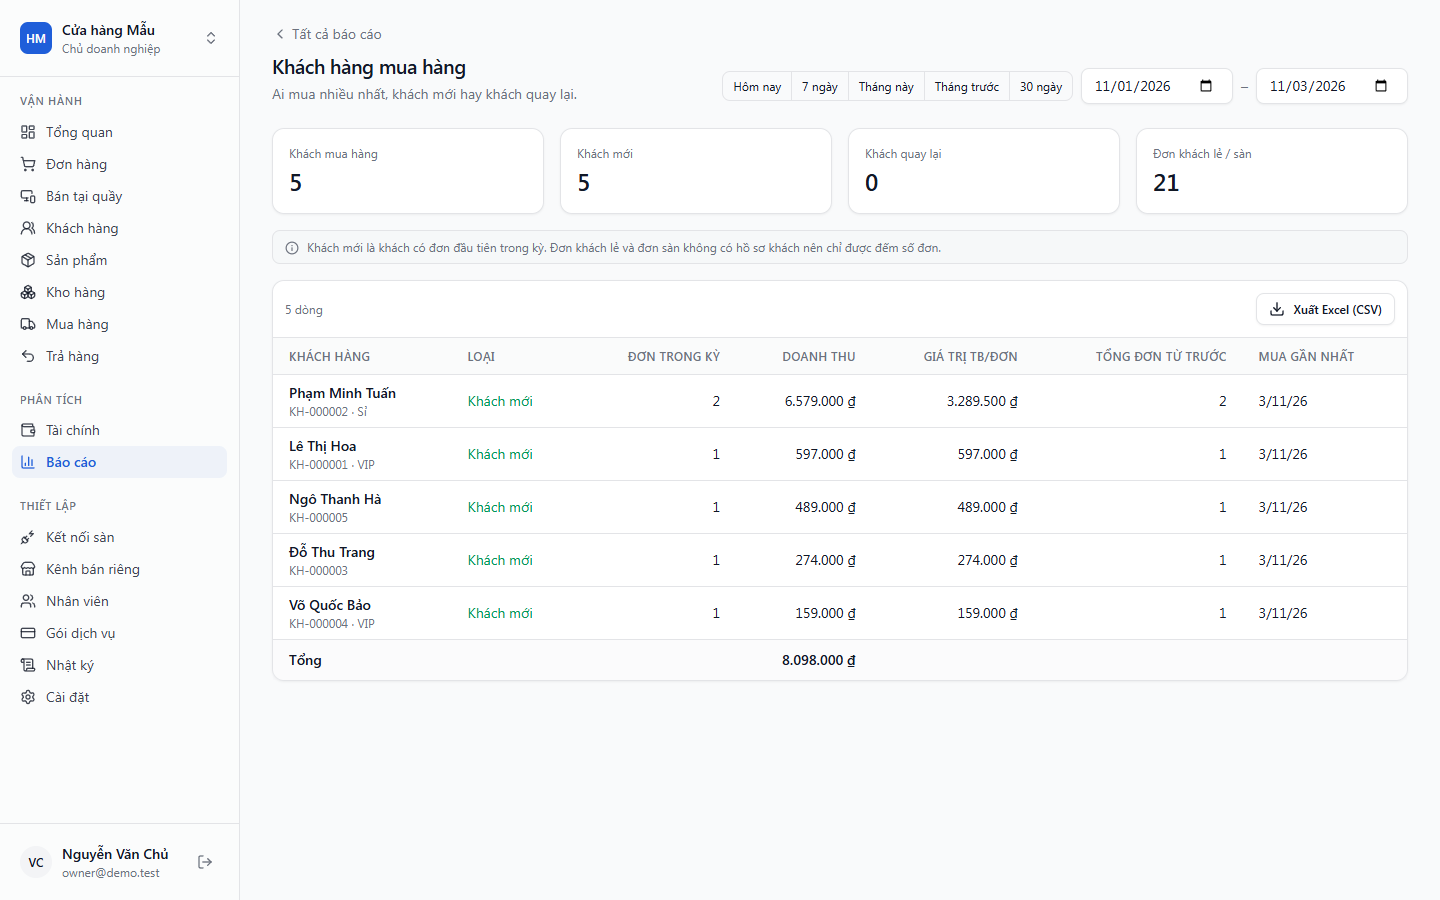
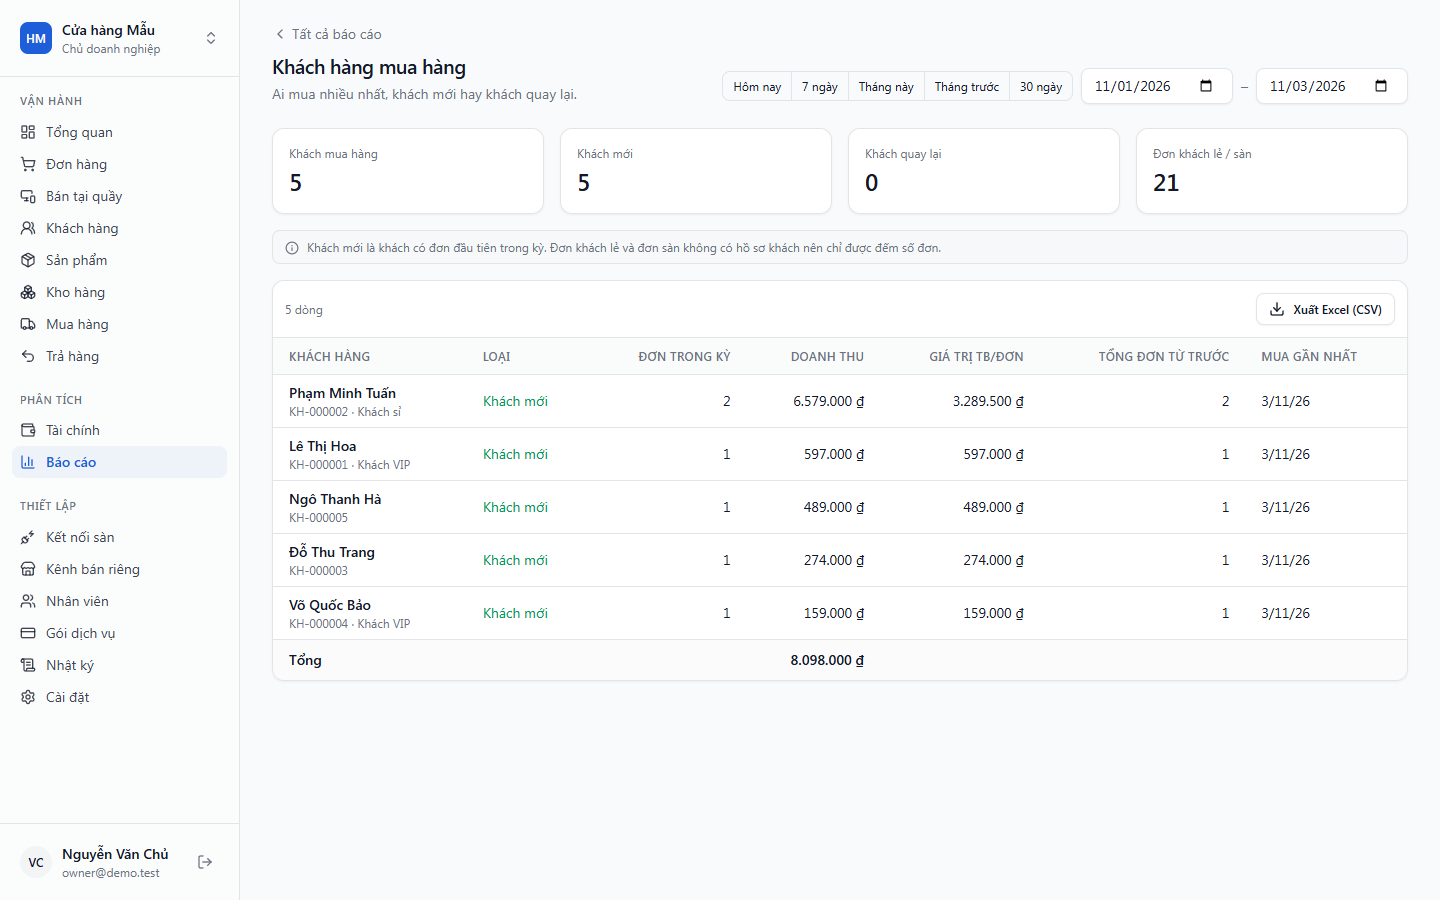
Report centre: supplier payments and stock adjustment reports

diff --git a/resources/js/apps/tenant/pages/reports/catalog.ts b/resources/js/apps/tenant/pages/reports/catalog.ts
@@ -1,3 +1,4 @@
+import { adjustmentReasons } from '../inventory/labels';
 import { paymentMethods, returnStatus, returnTypes } from '../orders/labels';
 
 export type ColumnType = 'text' | 'number' | 'money' | 'pct' | 'date' | 'datetime';
@@ -230,6 +231,57 @@ export const reports: Record<string, DetailReport> = {
             { key: 'shortfall', label: 'Thiếu', type: 'number', tone: () => 'danger' },
             { key: 'sold_30d', label: 'Bán 30 ngày', type: 'number' },
             { key: 'days_left', label: 'Đủ bán', value: (r) => (r.days_left === null ? '—' : `${r.days_left} ngày`) },
+        ],
+    },
+    'supplier-payments': {
+        key: 'supplier-payments',
+        title: 'Thanh toán nhập hàng',
+        description: 'Tiền đã trả nhà cung cấp trong kỳ (không tính phiếu chi đã hủy).',
+        endpoint: '/reports/supplier-payments',
+        permission: 'purchasing.view',
+        period: 'range',
+        tabs: { method: 'Theo phương thức', staff: 'Theo nhân viên', supplier: 'Theo nhà cung cấp', day: 'Theo ngày' },
+        empty: 'Chưa trả tiền nhà cung cấp nào trong kỳ.',
+        columns: (_d, by) => [
+            {
+                key: 'label',
+                label: { method: 'Phương thức', staff: 'Nhân viên', supplier: 'Nhà cung cấp', day: 'Ngày' }[by] ?? '',
+                value: (r) => (by === 'method' ? (paymentMethods[r.label] ?? r.label) : by === 'day' ? isoDay(r.label) : r.label),
+                link: (r) => (by === 'supplier' && r.id ? `/purchasing/suppliers/${r.id}` : null),
+            },
+            { key: 'entries', label: 'Số phiếu chi', type: 'number', total: true },
+            ...(by === 'supplier' ? [] : [{ key: 'suppliers', label: 'Số NCC', type: 'number' as const }]),
+            { key: 'paid', label: 'Đã trả', type: 'money', total: true },
+        ],
+    },
+    adjustments: {
+        key: 'adjustments',
+        title: 'Kiểm kê và điều chỉnh kho',
+        description: 'Phiếu kiểm kê, xuất hủy, điều chỉnh đã duyệt trong kỳ: số lượng tăng, giảm và giá trị chênh lệch.',
+        endpoint: '/reports/adjustments',
+        permission: 'inventory.view',
+        period: 'range',
+        warehouse: true,
+        tabs: { document: 'Theo phiếu', product: 'Theo sản phẩm', reason: 'Theo lý do' },
+        empty: 'Không có phiếu điều chỉnh nào được duyệt trong kỳ.',
+        note: 'Giá trị tính theo giá vốn bình quân hiện tại; số âm là hàng giảm (thiếu, hỏng, mất).',
+        columns: (_d, by) => [
+            {
+                key: 'label',
+                label: { document: 'Phiếu', product: 'Sản phẩm', reason: 'Lý do' }[by] ?? '',
+                value: (r) => (by === 'reason' ? (adjustmentReasons[r.label] ?? r.label) : r.label),
+                sub: (r) => (by === 'document' ? (adjustmentReasons[r.sku] ?? r.sku) : by === 'product' ? r.sku : null),
+                link: (r) => (by === 'document' ? `/inventory/adjustments/${r.id}` : by === 'product' ? `/inventory/sku/${r.id}` : null),
+            },
+            ...(by === 'document'
+                ? [
+                      { key: 'decided_at', label: 'Ngày duyệt', type: 'datetime' as const },
+                      { key: 'warehouse', label: 'Kho' },
+                  ]
+                : [{ key: 'documents', label: 'Số phiếu', type: 'number' as const, total: true }]),
+            { key: 'increase', label: 'SL tăng', type: 'number', total: true },
+            { key: 'decrease', label: 'SL giảm', type: 'number', total: true, tone: (r) => (r.decrease ? 'danger' : undefined) },
+            { key: 'value', label: 'Giá trị chênh lệch', type: 'money', total: true, tone: negative('value') },
         ],
     },
     'over-stock': {

diff --git a/resources/js/apps/tenant/router.ts b/resources/js/apps/tenant/router.ts
@@ -72,7 +72,7 @@ const routes: RouteRecordRaw[] = [
             { path: 'reports', name: 'reports', component: () => import('./pages/reports/ReportsHome.vue'), meta: { permission: 'reports.view', nav: 'reports' } },
             { path: 'reports/sales', name: 'report-sales', component: () => import('./pages/reports/SalesReport.vue'), meta: { permission: 'reports.view', nav: 'reports' } },
             { path: 'reports/profit-loss', name: 'report-profit-loss', component: () => import('./pages/reports/ProfitLoss.vue'), meta: { permission: 'finance.view', nav: 'reports' } },
-            { path: 'reports/view/:report(product-sales|returns|payments|purchases|customers|stock-on-hand|low-stock|over-stock|receivables|payables)', name: 'report-detail', component: () => import('./pages/reports/DetailReport.vue'), meta: { permission: 'reports.view', nav: 'reports' } },
+            { path: 'reports/view/:report(product-sales|returns|payments|purchases|customers|stock-on-hand|low-stock|over-stock|receivables|payables|supplier-payments|adjustments)', name: 'report-detail', component: () => import('./pages/reports/DetailReport.vue'), meta: { permission: 'reports.view', nav: 'reports' } },
             { path: 'reports/stock', name: 'report-stock', component: () => import('./pages/reports/StockLedgerReport.vue'), meta: { permission: 'inventory.view', nav: 'reports' } },
             { path: 'reports/cashbook', name: 'report-cashbook', component: () => import('./pages/reports/Cashbook.vue'), meta: { permission: 'finance.view', nav: 'cash' } },
             { path: 'reports/products', name: 'report-products', component: () => import('./pages/reports/ProductReports.vue'), meta: { permission: 'reports.view', nav: 'reports' } },

diff --git a/resources/js/apps/tenant/pages/reports/ReportsHome.vue b/resources/js/apps/tenant/pages/reports/ReportsHome.vue
@@ -143,6 +143,7 @@ const groups = computed<Group[]>(() => {
                 { label: 'Nhập hàng theo nhà cung cấp', to: detail('purchases', { by: 'supplier' }) },
                 { label: 'Nhập hàng theo sản phẩm', to: detail('purchases', { by: 'product' }) },
                 { label: 'Nhập hàng theo ngày', to: detail('purchases', { by: 'day' }) },
+                { label: 'Thanh toán nhập hàng', to: detail('supplier-payments', { by: 'method' }) },
                 { label: 'Công nợ nhà cung cấp', to: detail('payables', {}, false) },
             ],
         });
@@ -162,6 +163,7 @@ const groups = computed<Group[]>(() => {
             links: [
                 { label: 'Tồn kho tại ngày', to: detail('stock-on-hand', {}, false) },
                 { label: 'Xuất nhập tồn', to: { name: 'report-stock' } },
+                { label: 'Kiểm kê, xuất hủy, điều chỉnh', to: detail('adjustments', { by: 'document' }) },
                 { label: 'Hàng dưới định mức', to: detail('low-stock', {}, false) },
                 { label: 'Hàng vượt tồn tối đa', to: detail('over-stock', {}, false) },
                 { label: 'Thẻ kho từng SKU', to: { name: 'inventory' }, hint: 'Chọn SKU ở trang Tồn kho' },

diff --git a/e2e/reports.spec.ts b/e2e/reports.spec.ts
@@ -60,6 +60,7 @@ test('reports: sales and profit, stock ledger, cashbook', async ({ page }) => {
 });
 
 test('report centre: every group opens its detail reports on the same period', async ({ page }) => {
+    test.setTimeout(120_000);
     const dir = 'docs/screenshots/reports-centre';
     const snap = async (name: string) => {
         await page.evaluate(() => document.querySelectorAll<HTMLElement>('[role="status"]').forEach((t) => t.click()));
@@ -96,6 +97,8 @@ test('report centre: every group opens its detail reports on the same period', a
         ['stock-on-hand', '05-stock-on-hand', ''],
         ['low-stock', '06-low-stock', ''],
         ['over-stock', '06b-over-stock', ''],
+        ['adjustments', '06c-adjustments', '?by=reason'],
+        ['supplier-payments', '07b-supplier-payments', '?by=supplier'],
         ['purchases', '07-purchases-by-supplier', '?by=supplier'],
         ['payables', '08-supplier-debts', ''],
         ['payments', '09-payments-by-method', '?by=method'],

diff --git a/app/Modules/Analytics/Services/StockReports.php b/app/Modules/Analytics/Services/StockReports.php
@@ -173,6 +173,57 @@ class StockReports
         ];
     }
 
+    /**
+     * Approved stock adjustments (stocktakes, write-offs, corrections) decided in the range: what went up, what went
+     * down and its value at the current average cost, per document, per SKU or per reason.
+     *
+     * @return array<string, mixed>
+     */
+    public function adjustments(CarbonImmutable $from, CarbonImmutable $to, string $by = 'document', ?int $warehouseId = null): array
+    {
+        $base = DB::table('inventory_adjustment_lines as l')
+            ->join('inventory_adjustments as a', 'a.id', '=', 'l.inventory_adjustment_id')
+            ->join('product_variants as v', 'v.id', '=', 'l.product_variant_id')
+            ->where('a.tenant_id', $this->tenant())
+            ->where('a.status', 'approved')
+            ->whereBetween('a.decided_at', [$from, $to])
+            ->when($warehouseId, fn ($w) => $w->where('a.warehouse_id', $warehouseId));
+        $metrics = 'COUNT(DISTINCT a.id) as documents, SUM(CASE WHEN l.applied_delta > 0 THEN l.applied_delta ELSE 0 END) as increase, '
+            .'SUM(CASE WHEN l.applied_delta < 0 THEN -l.applied_delta ELSE 0 END) as decrease, SUM(COALESCE(l.applied_delta, 0) * v.cost_price) as value';
+
+        $rows = match ($by) {
+            'product' => (clone $base)->join('products as p', 'p.id', '=', 'v.product_id')
+                ->groupBy('l.product_variant_id', 'v.ulid', 'v.sku', 'v.name', 'p.name')
+                ->selectRaw("v.ulid as id, v.sku, TRIM(CONCAT(p.name, CASE WHEN v.name IS NULL OR v.name = '' THEN '' ELSE CONCAT(' - ', v.name) END)) as label, NULL as warehouse, NULL as decided_at, {$metrics}")
+                ->orderBy('value')->limit(2000)->get(),
+            'reason' => (clone $base)->groupBy('a.reason')
+                ->selectRaw("a.reason as label, NULL as id, NULL as sku, NULL as warehouse, NULL as decided_at, {$metrics}")->orderBy('value')->get(),
+            default => (clone $base)->join('warehouses as w', 'w.id', '=', 'a.warehouse_id')
+                ->groupBy('a.id', 'a.ulid', 'a.number', 'a.reason', 'a.decided_at', 'w.name')
+                ->selectRaw("a.ulid as id, a.number as label, a.reason as sku, w.name as warehouse, a.decided_at, {$metrics}")
+                ->orderByDesc('a.decided_at')->limit(2000)->get(),
+        };
+
+        $out = $rows->map(fn ($r) => [
+            'id' => $r->id,
+            'label' => (string) $r->label,
+            'sku' => $r->sku,
+            'warehouse' => $r->warehouse,
+            'decided_at' => $r->decided_at ? CarbonImmutable::parse($r->decided_at)->toIso8601String() : null,
+            'documents' => (int) $r->documents,
+            'increase' => (int) $r->increase,
+            'decrease' => (int) $r->decrease,
+            'value' => round((float) $r->value, 2) + 0.0,
+        ])->all();
+
+        $totals = ['documents' => (int) (clone $base)->distinct()->count('a.id')];
+        foreach (['increase', 'decrease', 'value'] as $k) {
+            $totals[$k] = round(array_sum(array_column($out, $k)), 2);
+        }
+
+        return ['range' => ['from' => $from->toDateString(), 'to' => $to->toDateString()], 'by' => $by, 'rows' => $out, 'totals' => $totals];
+    }
+
     /** Units shipped per SKU and warehouse in the last 30 days, as a subquery. */
     private function soldLast30Days(?int $warehouseId)
     {

diff --git a/tests/Feature/Analytics/ReportCentreTest.php b/tests/Feature/Analytics/ReportCentreTest.php
@@ -95,6 +95,11 @@ it('reports purchases, supplier debts, stock on any date and SKUs below safety s
     $api->getJson('/api/v1/reports/payables')->assertOk()
         ->assertJsonPath('data.totals.debt', 600000)->assertJsonPath('data.rows.0.supplier.name', 'Xưởng Minh Long');
 
+    $api->postJson("/api/v1/suppliers/{$supplier}/payments", ['method' => 'bank_transfer', 'amount' => 200000])->assertCreated();
+    expect($api->getJson('/api/v1/reports/supplier-payments')->assertOk()->json('data.rows.0'))->toMatchArray(['label' => 'bank_transfer', 'entries' => 1, 'paid' => 200000]);
+    expect($api->getJson('/api/v1/reports/supplier-payments?by=supplier')->json('data.rows.0'))->toMatchArray(['label' => 'Xưởng Minh Long', 'id' => $supplier]);
+    $api->getJson('/api/v1/reports/payables')->assertJsonPath('data.totals.debt', 400000);
+
     $today = $api->getJson('/api/v1/reports/stock-on-hand')->assertOk()->json('data');
     expect($today['totals'])->toMatchArray(['skus' => 1, 'quantity' => 10, 'value' => 600000])
         ->and($today['rows'][0]['by_warehouse'][defaultWarehouse($tenant)->ulid])->toBe(10)
@@ -111,10 +116,18 @@ it('reports purchases, supplier debts, stock on any date and SKUs below safety s
     $api->putJson("/api/v1/inventory/variants/{$variant->ulid}/location", ['warehouse' => defaultWarehouse($tenant)->ulid, 'max_stock' => 4])->assertOk();
     expect($api->getJson('/api/v1/reports/over-stock')->assertOk()->json('data.rows.0'))->toMatchArray(['on_hand' => 10, 'max_stock' => 4, 'excess' => 6, 'excess_value' => 360000]);
 
+    // Two damaged pieces written off.
+    $adjustment = $api->postJson('/api/v1/inventory/adjustments', ['warehouse_id' => defaultWarehouse($tenant)->ulid, 'reason' => 'damaged', 'lines' => [['variant_id' => $variant->ulid, 'mode' => 'delta', 'quantity' => -2]]])
+        ->assertCreated()->json('data.id');
+    $api->postJson("/api/v1/inventory/adjustments/{$adjustment}/approve")->assertOk();
+    expect($api->getJson('/api/v1/reports/adjustments?by=reason')->assertOk()->json('data.rows.0'))->toMatchArray(['label' => 'damaged', 'documents' => 1, 'increase' => 0, 'decrease' => 2, 'value' => -120000]);
+    expect($api->getJson('/api/v1/reports/adjustments')->json('data.rows.0.id'))->toBe($adjustment);
+    expect($api->getJson('/api/v1/reports/adjustments?by=product')->json('data.totals'))->toMatchArray(['documents' => 1, 'decrease' => 2]);
+
     $overview = $api->getJson('/api/v1/reports/overview')->assertOk()->json('data');
     expect($overview['purchases']['value'])->toEqual(600000)
-        ->and($overview['payable']['debt'])->toEqual(600000)
-        ->and($overview['stock']['value'])->toEqual(600000)
+        ->and($overview['payable']['debt'])->toEqual(400000)
+        ->and($overview['stock']['value'])->toEqual(480000)
         ->and($overview['stock']['low']['skus'])->toBe(1);
 });
 

diff --git a/app/Modules/Analytics/Services/TradeReports.php b/app/Modules/Analytics/Services/TradeReports.php
@@ -155,6 +155,39 @@ class TradeReports
     }
 
     /**
+     * Payments made to suppliers (voided ones excluded) by method, staff, supplier or day.
+     *
+     * @return array<string, mixed>
+     */
+    public function supplierPayments(CarbonImmutable $from, CarbonImmutable $to, string $by = 'method'): array
+    {
+        $base = DB::table('supplier_payments as sp')
+            ->where('sp.tenant_id', $this->tenant())
+            ->whereNull('sp.voided_at')
+            ->whereBetween('sp.paid_at', [$from, $to]);
+        $metrics = 'COUNT(*) as entries, SUM(sp.amount) as paid, COUNT(DISTINCT sp.supplier_id) as suppliers';
+
+        $rows = match ($by) {
+            'staff' => (clone $base)->leftJoin('users as u', 'u.id', '=', 'sp.created_by')
+                ->groupBy('sp.created_by', 'u.name')->selectRaw("COALESCE(u.name, 'Không rõ') as label, NULL as id, {$metrics}")->orderByDesc('paid')->get(),
+            'supplier' => (clone $base)->join('suppliers as s', 's.id', '=', 'sp.supplier_id')
+                ->groupBy('sp.supplier_id', 's.ulid', 's.name')->selectRaw("s.name as label, s.ulid as id, {$metrics}")->orderByDesc('paid')->get(),
+            'day' => (clone $base)->groupByRaw('DATE(sp.paid_at)')->selectRaw("DATE(sp.paid_at) as label, NULL as id, {$metrics}")->orderBy('label')->get(),
+            default => (clone $base)->groupBy('sp.method')->selectRaw("sp.method as label, NULL as id, {$metrics}")->orderByDesc('paid')->get(),
+        };
+
+        $out = $rows->map(fn ($r) => [
+            'label' => (string) $r->label,
+            'id' => $r->id,
+            'entries' => (int) $r->entries,
+            'suppliers' => (int) $r->suppliers,
+            'paid' => round((float) $r->paid, 2),
+        ])->all();
+
+        return ['range' => $this->range($from, $to), 'by' => $by, 'rows' => $out, 'totals' => $this->sum($out, ['entries', 'paid'])];
+    }
+
+    /**
      * Goods received into stock in the range (opening balances left out), by supplier, SKU or day, with goods
      * returned to suppliers alongside. Receipts not tied to a purchase order are grouped as "Nhập lẻ".
      *

diff --git a/app/Modules/Analytics/Http/Controllers/ReportsController.php b/app/Modules/Analytics/Http/Controllers/ReportsController.php
@@ -88,6 +88,23 @@ class ReportsController extends Controller
         return response()->json(['data' => $trade->purchases($from, $to, $this->by($request, ['supplier', 'product', 'day']))]);
     }
 
+    public function supplierPayments(Request $request, TradeReports $trade): JsonResponse
+    {
+        $this->allow('purchasing.view');
+        [$from, $to] = $this->range($request);
+
+        return response()->json(['data' => $trade->supplierPayments($from, $to, $this->by($request, ['method', 'staff', 'supplier', 'day']))]);
+    }
+
+    public function adjustments(Request $request, StockReports $stock): JsonResponse
+    {
+        $this->allow('inventory.view');
+        [$from, $to] = $this->range($request);
+        $warehouse = $request->validate(['warehouse' => ['nullable', 'string']])['warehouse'] ?? null;
+
+        return response()->json(['data' => $stock->adjustments($from, $to, $this->by($request, ['document', 'product', 'reason']), $this->warehouse($warehouse))]);
+    }
+
     public function customers(Request $request, TradeReports $trade): JsonResponse
     {
         $this->allow('reports.view');

diff --git a/app/Modules/Analytics/Routes/api.php b/app/Modules/Analytics/Routes/api.php
@@ -18,6 +18,8 @@ Route::middleware(['auth:sanctum', 'verified', 'tenant'])->group(function () {
     Route::get('reports/payments', [ReportsController::class, 'payments']);
     Route::get('reports/purchases', [ReportsController::class, 'purchases']);
     Route::get('reports/customers', [ReportsController::class, 'customers']);
+    Route::get('reports/supplier-payments', [ReportsController::class, 'supplierPayments']);
+    Route::get('reports/adjustments', [ReportsController::class, 'adjustments']);
     Route::get('reports/stock-on-hand', [ReportsController::class, 'stockOnHand']);
     Route::get('reports/low-stock', [ReportsController::class, 'lowStock']);
     Route::get('reports/over-stock', [ReportsController::class, 'overStock']);

diff --git a/docs/CHANGELOG.md b/docs/CHANGELOG.md
@@ -13,11 +13,11 @@
 
 ### Trung tâm báo cáo (2026-11-03)
 - `/reports` thành trang tổng hợp: 6 nhóm (Bán hàng, Trả hàng, Khách hàng, Tài chính, Nhập hàng, Kho hàng), mỗi nhóm có số chính của kỳ và danh sách báo cáo chi tiết. Nhóm chỉ hiện với người có quyền tương ứng.
-- Báo cáo mới: bán hàng theo sản phẩm / khách hàng / kho; trả hàng theo đơn và theo sản phẩm; thanh toán của khách theo phương thức / nhân viên / ngày; nhập hàng theo nhà cung cấp / sản phẩm / ngày; khách mua hàng (khách mới, quay lại); tồn kho tại một ngày bất kỳ theo từng kho; hàng dưới định mức (kèm số bán 30 ngày, số ngày còn đủ bán); hàng vượt tồn tối đa (số dư, giá trị dư); công nợ khách hàng; công nợ nhà cung cấp.
+- Báo cáo mới: bán hàng theo sản phẩm / khách hàng / kho; trả hàng theo đơn và theo sản phẩm; thanh toán của khách theo phương thức / nhân viên / ngày; nhập hàng theo nhà cung cấp / sản phẩm / ngày; khách mua hàng (khách mới, quay lại); tồn kho tại một ngày bất kỳ theo từng kho; hàng dưới định mức (kèm số bán 30 ngày, số ngày còn đủ bán); hàng vượt tồn tối đa (số dư, giá trị dư); kiểm kê và điều chỉnh kho theo phiếu / sản phẩm / lý do; thanh toán nhập hàng theo phương thức / nhân viên / nhà cung cấp / ngày; công nợ khách hàng; công nợ nhà cung cấp.
 - Báo cáo lãi lỗ (`/reports/profit-loss`): doanh thu thuần, giá vốn, lợi nhuận gộp, hao hụt kho, lợi nhuận; đặt cạnh kỳ trước cùng số ngày và % thay đổi; bấm dòng để xem chi tiết.
 - Kỳ báo cáo, tab và bộ lọc nằm trên URL: mở báo cáo từ trang tổng hợp giữ nguyên kỳ đang xem, có thể lưu hoặc gửi link. Mọi báo cáo xuất CSV mở được bằng Excel.
 - Báo cáo bán hàng & lợi nhuận chuyển sang `/reports/sales`.
-- API: `GET /reports/{overview,product-sales,returns,payments,purchases,customers,stock-on-hand,low-stock,over-stock,profit-loss,receivables,payables}`.
+- API: `GET /reports/{overview,product-sales,returns,payments,purchases,customers,stock-on-hand,low-stock,over-stock,adjustments,supplier-payments,profit-loss,receivables,payables}`.
 
 ### Khách hàng — nhóm, hồ sơ, bộ lọc, công nợ, nhập/xuất (2026-11-03)
 - Nhóm khách hàng thành danh mục riêng (`/customers/groups`): mã, tên, mô tả, giá áp dụng (lẻ/buôn), chiết khấu %, cách thanh toán quen dùng, số khách mỗi nhóm. Nhóm chữ cũ được chuyển tự động.
